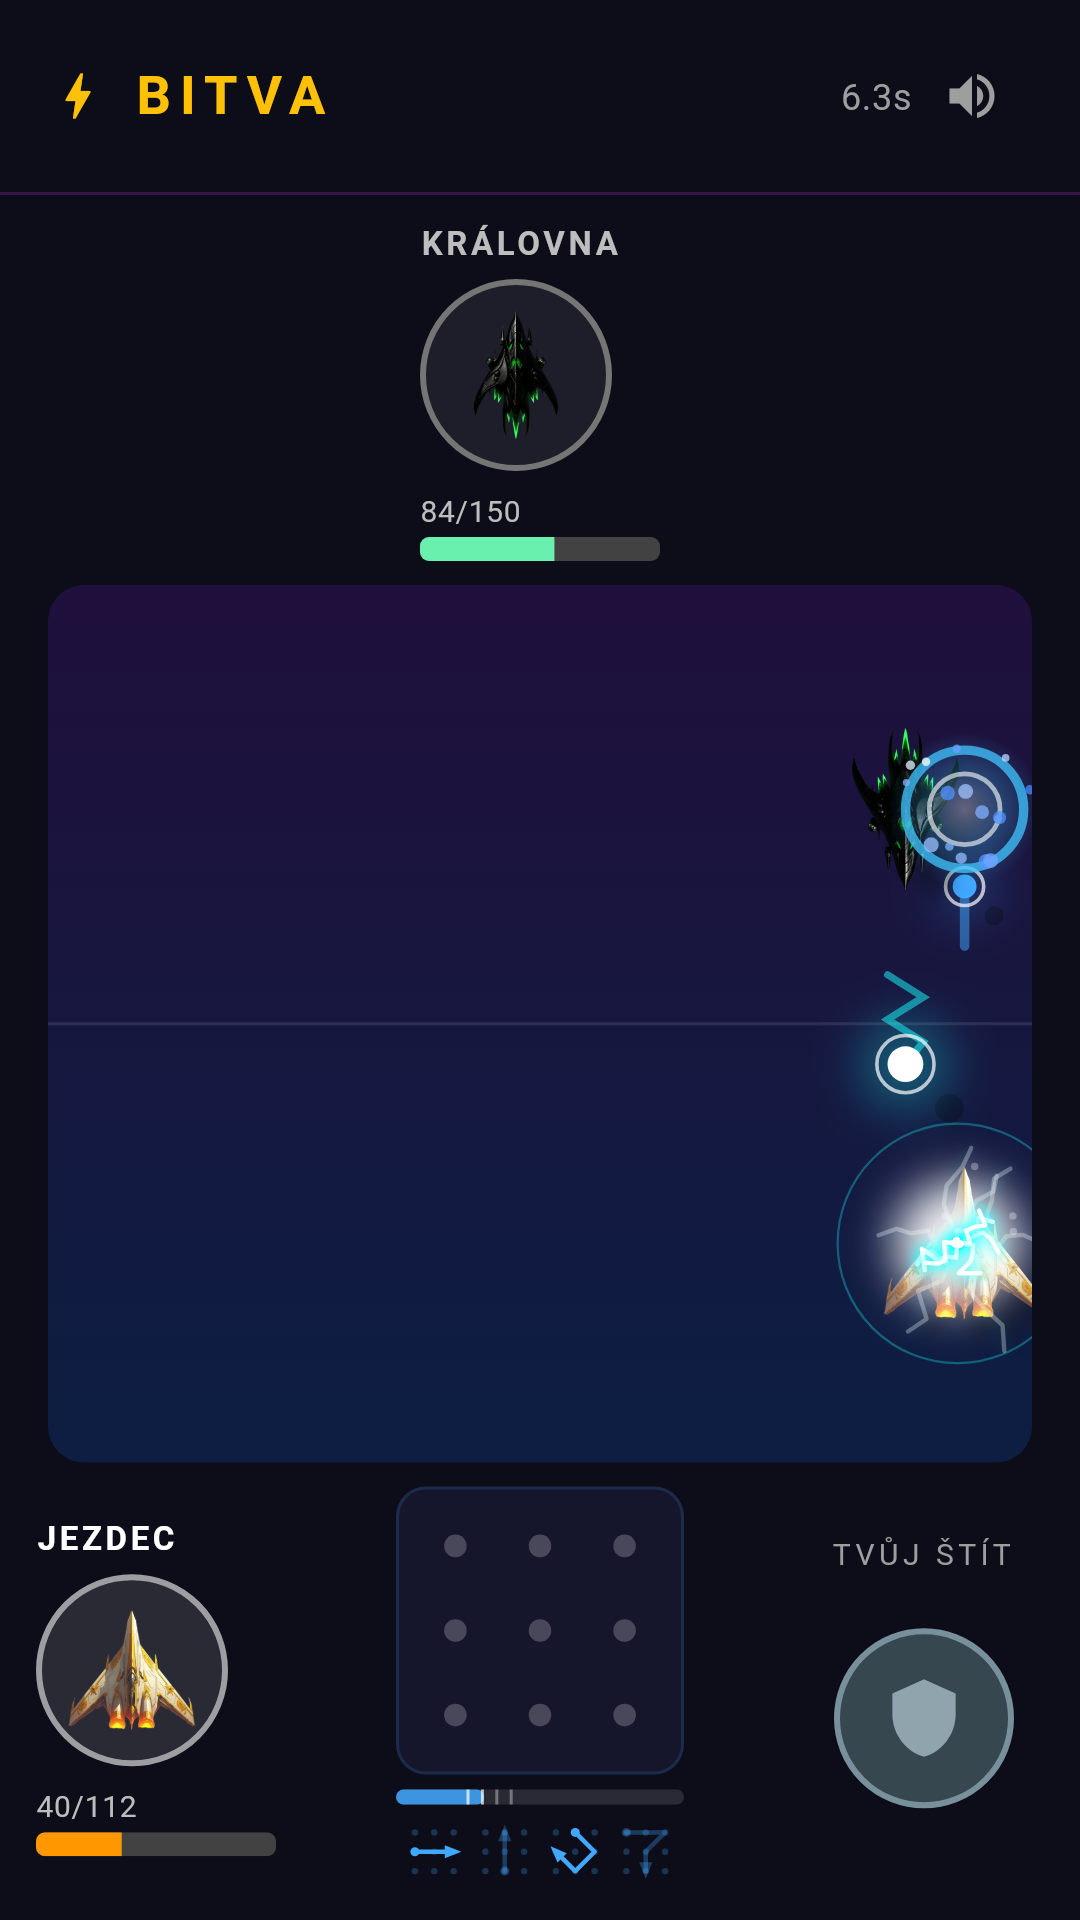
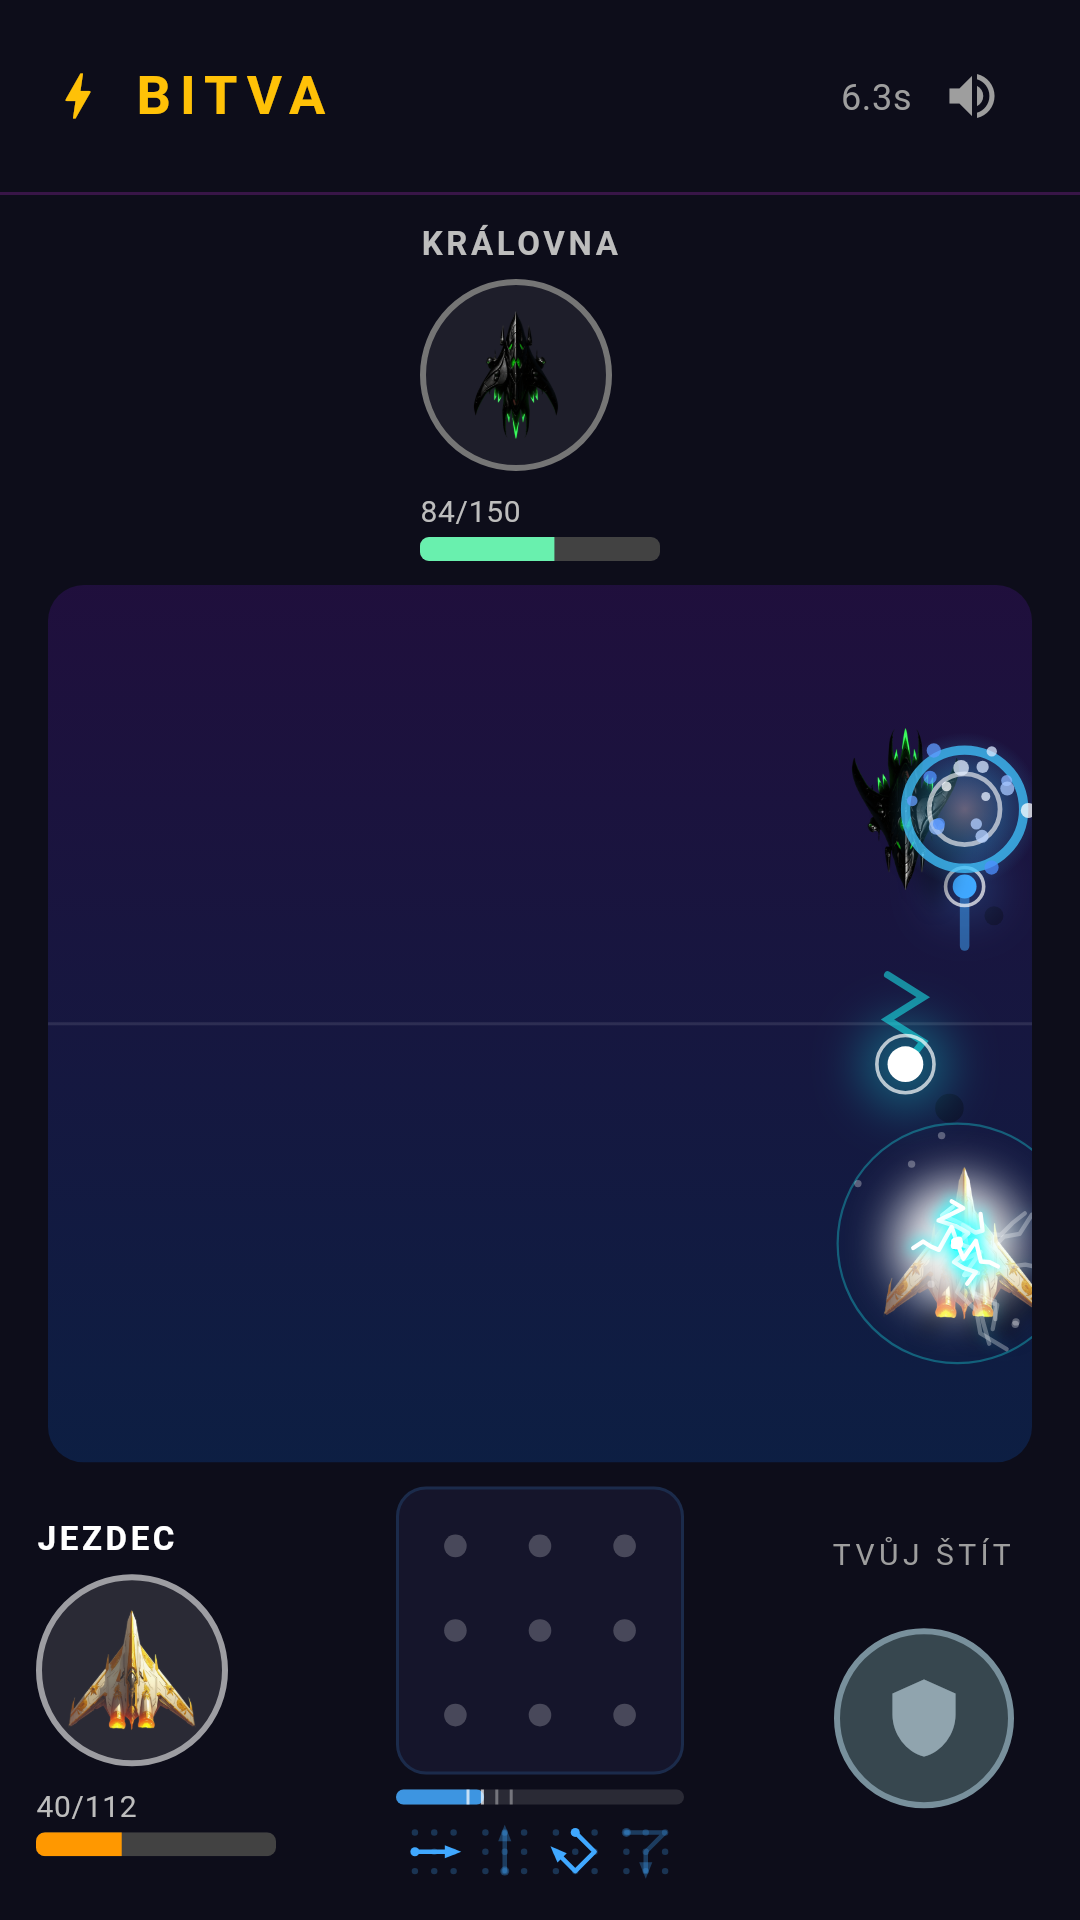
docs: packs, music, Czech and screenshots in README, CLAUDE.md and the release checklist
Twelve store products now (Phantom and Striker packs, Retro Arcade music),
listing and checklist updated, Czech and the screenshots marked done in
the plan.

Claude-Session: https://claude.ai/code/session_01CnxdHbVPekHYo5gGQuqTZk

Changed region(s): [[0.825, 0.5938, 0.9472, 0.7188], [0.8556, 0.375, 0.9472, 0.4688]]

diff --git a/test/store_screenshots/store_screenshots_test.dart b/test/store_screenshots/store_screenshots_test.dart
@@ -74,7 +74,7 @@ class _ShopWindow extends PurchaseService {
       StoreCatalog.commanderId => 249,
       StoreCatalog.fleetBundleId => 179,
       final id when id.startsWith('fleet.') => 49,
-      final id when id.startsWith('music.') => 25,
+      final id when id.startsWith('music.') => 29,
       _ => 79,
     };
     return czech ? '$crowns Kč' : '€${euro.toStringAsFixed(2)}';

diff --git a/CLAUDE.md b/CLAUDE.md
@@ -33,16 +33,17 @@ lib/
 ├── features/
 │   ├── battle/              # Game screen — board rendering, move handling
 │   ├── comcenter/           # Between-game lobby/settings screen
+│   ├── store/               # In-app purchases: catalog, entitlements, RevenueCat
 │   ├── game/                # Game state management
 │   ├── onboarding/          # How to play, first-battle hint
 │   ├── progress/            # Fleet progress (credits, upgrades, record) saved on device
-│   ├── store/               # In-app purchases: catalog, entitlements, RevenueCat
 │   └── telemetry/           # Product events to Supabase, Sentry breadcrumbs
 
 assets/fleets/               # Battle ship sprites, one folder per fleet
 assets/audio/                # Battle music and effects (tools/battle_audio)
+lib/l10n/                    # English and Czech (ARB, generated localizations, content_cs.dart)
 supabase/                    # Supabase schema and migrations
-docs/                        # Privacy policy, store listing
+docs/                        # Privacy policy, store listing, store/ screenshots and feature graphics
 release.example.json         # --dart-define-from-file keys for release builds
 ```
 
@@ -52,6 +53,7 @@ release.example.json         # --dart-define-from-file keys for release builds
 - `freezed` / `json_serializable` — immutable game models
 - `supabase_flutter` — lobby and realtime multiplayer
 - `shared_preferences` — fleet progress, one JSON blob per fleet under `fleet_progress.<identity>`
+- `flutter_localizations` / `intl` — gen-l10n, English and Czech
 - `purchases_flutter` — RevenueCat in-app purchases (one-time products only)
 - `sentry_flutter` 9.x — crash reports (10.x needs Dart 3.12; 8.x breaks the Kotlin build)
 - `package_info_plus` — app version for telemetry
@@ -78,6 +80,7 @@ release.example.json         # --dart-define-from-file keys for release builds
 - `BattleEngine.startManeuver` charges `BattleUnit.energy` (50 at the start, `maxEnergy` 100, `energyPerSecond` back) and stores a `ManeuverRun`; `tick` flies it, fires its bursts, lets shots pass through the untouchable window and refuses steering until it ends. `Overdrive` is the exception: the helm stays, only `fireRateScale` changes.
 - `ManeuverPad` recognises the gesture (`PatternRecognizer`) and `BattleStateNotifier.startLocalManeuver` runs it, sending `ManeuverStartedEvent` with the anchors so the opponent's engine flies the same path. An unknown maneuver id is ignored.
 - `BattleAi` reaches for one on its own 700 ms clock — cornered, or with the enemy in its hit zone. Tying it to the steering decision had the best pilots flying one almost without a break.
+- Pack families (`ManeuverTier.pack`, `PackUnlock`): `spiral` (Ace pack), `phantom` (Phantom pack: `Maneuver.cloaks`, no shots, longest untouchable window, the painter fades the ship) and `strafe` (Striker pack: two passes over the enemy). `maneuver_pack_balance_test` (slow) keeps a pack maneuver at or under 58 % against its closest earnable one; both land at 44 %. `BattleAi` takes a fixed `maneuvers` loadout for it.
 - Progress: `FleetProgress.maneuvers` (`ShipManeuvers`: owned, four armed, trained levels) and `battleWins` per ship. `FleetProgressNotifier.recordBattleWin` unlocks what the wins are worth, `buyManeuver`/`upgradeManeuver`/`armManeuvers`/`grantPack` do the rest. Single player only, like credits and skins.
 
 ## Fleet Ship Art
@@ -89,10 +92,22 @@ release.example.json         # --dart-define-from-file keys for release builds
 ## Store
 
 - Free game, no ads; the store sells looks and sidegrades. `FleetSkin.premium` marks six fleets; Vanguard and the AI fleets are free.
-- `StoreCatalog` lists the products (`bundle.commander`, `bundle.fleets`, `fleet.<slug>`, `pack.<id>`); the ids are the Google Play and App Store product ids. `Entitlements` answers what is owned: a product, a bundle covering it, or a `legacyFleets` slug kept from before the store.
+- `StoreCatalog` lists the products (`bundle.commander`, `bundle.fleets`, `fleet.<slug>`, `pack.<id>`, `music.<slug>`); the ids are the Google Play and App Store product ids. `Entitlements` answers what is owned: a product, a bundle covering it, or a `legacyFleets` slug kept from before the store.
 - `PurchaseService`: `RevenueCatPurchaseService` when the build has `REVENUECAT_GOOGLE_KEY` / `REVENUECAT_APPLE_KEY`, `DebugPurchaseService` (free, saved on device) in debug builds, else `UnavailablePurchaseService`. No RevenueCat entitlements or offerings: the app maps product ids itself.
 - `EntitlementsNotifier` (`entitlementsProvider`) caches in `store.entitlements`, syncs at start, grants owned packs with `FleetProgressNotifier.grantPack`, and swaps an unowned premium skin for the fallback (refunds). The first launch with a store grandfathers the premium skin the player flies.
+- Music: `BattleMusic` (`standard`, premium `retro` from `assets/audio/music_retro/`, built by `tools/battle_audio/chiptune.py`); `chosenBattleMusicProvider` keeps the pick in `battle_music`, `battleMusicProvider` falls back to standard when it is not owned; `BattleAudio.start(music:)` and `preview`.
 - UI: Comcenter Store tab (`StoreTab`, Restore purchases), `showStoreItemSheet` from locked fleet cards and pack maneuvers.
+
+## Localization
+
+- English (template) and Czech in `lib/l10n/app_{en,cs}.arb`; `flutter gen-l10n` writes the tracked `app_localizations*.dart` next to them. Use `context.l10n` (falls back to English without delegates, as in widget tests).
+- Catalog content stays English in pure Dart; `AppLocalizations.content()`, `maneuverName`, `storeTitle` and so on translate it from `content_cs.dart`. `l10n_test` fails when a key, placeholder or catalog text is missing in Czech or a Czech entry is stale.
+- `resolveAppLocale`: Czech for a Czech device, English for everything else (Flutter's own fallback would pick Czech, the first supported locale).
+- Fleet names stay proper nouns; the game's default player names (White, Black, Orbitron AI) are mapped for display in `game_screen.dart`.
+
+## Store screenshots
+
+`STORE_SCREENSHOTS=1 flutter test test/store_screenshots` renders `docs/store/` (skipped otherwise). It loads Roboto and Material Icons from the Flutter SDK and DejaVu Sans for chess symbols from this machine, fakes store prices, and picks a battle frame from simulated duels. `OrbitronTacticsApp` takes `home`, `locale` and `theme` for it.
 
 ## Telemetry and onboarding
 

diff --git a/Prompts/10-RELEASE-checklist.md b/Prompts/10-RELEASE-checklist.md
@@ -3,12 +3,15 @@
 > Předávací checklist k plánu `09-PLAN-monetizace.md`. Kód je hotový na větvi
 > `claude/plan-monetizace` (Android podpis, Supabase RLS, telemetrie, obchod,
 > onboarding). Tady jsou kroky, které potřebují tvoje účty, klíče nebo Mac.
+> Od té doby přibyly: balíčky manévrů Phantom a Striker, hudba Retro Arcade,
+> čeština v aplikaci a screenshoty do storu. Produktů je teď **12**.
+>
 > Pro Claude v lokálním terminálu: postupuj po sekcích, nic z toho necommituj
 > kromě úprav označených **(commit)**. Klíče patří do `release.json` a
 > `android/key.properties`, oba jsou v `.gitignore`.
 
-Stav větve: `flutter analyze` čistý, `flutter test --exclude-tags slow` 322
-zelených, `flutter build apk --release` i `flutter build appbundle --release`
+Stav větve: `flutter analyze` čistý, `flutter test --exclude-tags slow` 344
+zelených (4 přeskočené jsou generátor screenshotů), `flutter build apk --release` i `flutter build appbundle --release`
 (s testovacím upload klíčem) prošly na Linuxu s Flutter 3.41.9. iOS build
 neověřený (chybí Mac).
 
@@ -57,7 +60,7 @@ sentry.io → nový projekt Flutter → zkopíruj DSN do `release.json`
 3. **Closed testing hned teď**: osobní účet potřebuje 12 testerů
    přihlášených 14 dní v kuse, než povolí produkci. První build může jít
    bez IAP klíčů (obchod se ukáže jako nedostupný).
-4. Monetize → In-app products: založ 9 jednorázových produktů podle
+4. Monetize → In-app products: založ 12 jednorázových produktů podle
    tabulky v `docs/store-listing.md` (id musí sedět přesně), ceny ručně
    pro CZK a EUR, stav Active.
 5. Settings → License testing: přidej svůj Google účet a testery
@@ -75,7 +78,7 @@ sentry.io → nový projekt Flutter → zkopíruj DSN do `release.json`
    credentials“; oprávnění se propisují až 36 h).
 2. **App Store app**: bundle id `com.ol1n.orbitronTactics`, In-App
    Purchase Key z App Store Connect.
-3. Products → Import: všech 9 produktů z obou storů. **Entitlements ani
+3. Products → Import: všech 12 produktů z obou storů. **Entitlements ani
    Offerings nejsou potřeba**, aplikace mapuje id produktů na obsah sama.
 4. API keys → public SDK keys `goog_...` a `appl_...` do `release.json`.
 
@@ -96,7 +99,7 @@ výchozí hodnoty v kódu míří na stávající projekt.
 2. Xcode → Runner → Signing & Capabilities → přidej **In-App Purchase**,
    vyber tým; v `ios/ExportOptions.plist` nahraď `REPLACE_WITH_YOUR_TEAM_ID`
    **(commit)**.
-3. App Store Connect: nová aplikace, 9 In-App Purchases (Non-Consumable,
+3. App Store Connect: nová aplikace, 12 In-App Purchases (Non-Consumable,
    stejná id), každý s review screenshotem; odeslat spolu s prvním buildem.
 4. `cd ios && pod install && cd ..`
    `flutter build ipa --release --dart-define-from-file=release.json`
@@ -115,7 +118,9 @@ výchozí hodnoty v kódu míří na stávající projekt.
 | License tester koupí Solar Crusade | Flotila odemčená a vybraná, `app_events` má `purchase` s `purchased` |
 | Refund v Play Console, restart aplikace | Flotila znovu zamčená, letí Vanguard |
 | Reinstalace, Restore purchases | Nákupy zpět |
-| Balíček Ace | Spirála u všech lodí v záložce Maneuvers |
+| Balíček Ace, Phantom, Striker | Spirála, Fantom a Nálet u všech lodí v záložce Maneuvers |
+| Hudba Retro Arcade | V Store tabu volba hudby; po koupi hraje v bitvě, po refundu zase standardní |
+| Telefon s češtinou / jiným jazykem | Čeština / angličtina |
 | Start offline | Hra jede, obchod bez cen, koupené věci zůstávají |
 | Alfa tester s prémiovou flotilou | Po aktualizaci ji má dál (legacy) |
 | Dvě zařízení, online hra | Lobby ukáže hru, druhý se připojí; třetí ji už nevidí |
@@ -123,15 +128,18 @@ výchozí hodnoty v kódu míří na stávající projekt.
 
 ## 9. Store assety
 
-6–8 screenshotů telefonu (lobby, deska, bitva, manévr, Comcenter, Store),
-feature graphic 1024×500, ikona 512×512 (`assets/icon/icon.png`), texty
-v `docs/store-listing.md`.
+Hotové v `docs/store/`: 7 screenshotů telefonu v EN a CS a feature graphic
+1024×500 v EN a CS (generuje je `STORE_SCREENSHOTS=1 flutter test
+test/store_screenshots`). Ikona 512×512 je `assets/icon/icon.png`, texty
+jsou v `docs/store-listing.md`. Chybí jen screenshoty tabletů (nepovinné).
+Lepší by byly screenshoty z reálného zařízení; tyhle jsou z testu.
 
 ## Co z plánu není hotové
 
-- **Čeština v aplikaci** (B9): UI je anglicky, store listing je dvojjazyčný.
 - **Odznak supportera v lobby** u Commander Edition: vypuštěn, šel by
   podvrhnout z klienta; Commander dává všechen současný i budoucí obsah.
-- **Vlna 2 a 3** obsahu (nové flotily, balíčky Phantom/Striker, hudba,
-  témata desky) podle plánu po vydání.
+- **Vlna 3** (témata desky, profil v lobby, booster kreditů) podle plánu
+  po vydání. Nové flotily potřebují sprity, nástroj na ně v repu není.
+- **Hudba Retro Arcade** je syntetizovaná skriptem, ne generovaná modelem;
+  poslechni ji před vydáním (`tools/battle_audio/chiptune.py`).
 - **Windows**: v repu není `windows/`, z README a CLAUDE.md jsem ho vyřadil.

diff --git a/README.md b/README.md
@@ -20,11 +20,12 @@ A strategic 2-player chess variant with custom piece movement rules, power field
 - Battle arena with altitude, banking ships and elemental explosions
 - Battle music per attacking unit type and sound effects per element
 - Maneuvers drawn as gestures: 11–13 per ship, armed four at a time
-- Free to play, no ads; a store for premium fleets and maneuver packs
+- Free to play, no ads; a store for premium fleets, maneuver packs and music
+- English and Czech, following the device's language
 - How to play pages on first launch, control hints in the first battle
 - Threat indicators (red badge on endangered pieces)
 - Disconnect handling via Supabase Presence
-- 322 unit and widget tests
+- 344 unit and widget tests
 
 ## Single Player
 
@@ -64,10 +65,13 @@ all one-time purchases:
 | Commander Edition | Everything below, and everything added later |
 | Fleet Collection | All six premium fleets, and fleets added later |
 | A premium fleet | Solar Crusade, Neon Runners, Crystal Choir, Ronin Blades, Atomic Age or Abyssal Tide |
-| Ace pack | The corkscrew for every ship |
+| Ace, Phantom and Striker packs | The corkscrew, the cloaked Phantom and the two-pass Strafing Run for every ship |
+| Retro Arcade music | Every battle theme again as 8-bit chiptune |
 
 Vanguard and the three AI fleets (Star Nomads, Iron Armada, Void Hive) stay
-free. Purchases go through RevenueCat to Google Play and the App Store;
+free, and so do the standard themes. The packs are sidegrades: a slow
+balance test pits each pack maneuver against the closest earnable one in
+every ship, and neither wins more than 44 % of 900 battles. Purchases go through RevenueCat to Google Play and the App Store;
 Restore purchases is at the bottom of the Store tab. Debug builds sell
 everything for free.
 
@@ -93,6 +97,9 @@ flutter run -d android
 
 # Release, with the keys from release.example.json
 flutter build appbundle --release --dart-define-from-file=release.json
+
+# Store screenshots and feature graphics into docs/store
+STORE_SCREENSHOTS=1 flutter test test/store_screenshots
 
 # Tests (as CI runs them)
 flutter test --exclude-tags slow

diff --git a/docs/store-listing.md b/docs/store-listing.md
@@ -1,5 +1,17 @@
 # Store listing — Orbitron Tactics
 
+## Graphics
+
+Rendered from the real screens by `STORE_SCREENSHOTS=1 flutter test
+test/store_screenshots`; regenerate after any UI change.
+
+| File | Use |
+|---|---|
+| `docs/store/screenshots/{en,cs}/01_lobby.png` … `07_how_to_play.png` | Phone screenshots, 1080 x 1920, in this order |
+| `docs/store/feature_graphic_{en,cs}.png` | Play feature graphic, 1024 x 500, per language |
+
+Tablet screenshots (7" and 10") are optional on Play and not made.
+
 ## Names and short descriptions
 
 | | English | Čeština |
@@ -36,8 +48,9 @@ PLAY YOUR WAY
 BUILD YOUR FLEET
 Win battles to earn credits, upgrade your units and learn new maneuvers.
 
-The whole game is free, with no ads. Optional purchases add premium fleets
-and maneuver packs; they change how the game looks, not who wins.
+The whole game is free, with no ads. Optional purchases add premium fleets,
+maneuver packs and a retro chiptune soundtrack; they change how the game
+looks and sounds, not who wins.
 
 ## Plný popis — čeština
 
@@ -68,7 +81,8 @@ VYBUDUJ SI FLOTILU
 Vyhrané bitvy přinášejí kredity na vylepšení jednotek a nové manévry.
 
 Celá hra je zdarma a bez reklam. Volitelné nákupy přidávají prémiové
-flotily a balíčky manévrů; mění vzhled hry, ne to, kdo vyhraje.
+flotily, balíčky manévrů a retro chiptune hudbu; mění vzhled a zvuk hry,
+ne to, kdo vyhraje.
 
 ## In-app products (one-time, non-consumable)
 
@@ -85,6 +99,9 @@ Product ids are the same on Google Play and in App Store Connect.
 | `fleet.atomic_age` | Atomic Age | 1.99 | 49 |
 | `fleet.abyssal_tide` | Abyssal Tide | 1.99 | 49 |
 | `pack.ace` | Ace pack | 2.99 | 79 |
+| `pack.phantom` | Phantom pack | 2.99 | 79 |
+| `pack.striker` | Striker pack | 2.99 | 79 |
+| `music.retro` | Retro Arcade music | 0.99 | 29 |
 
 The ids come from `StoreCatalog` in the app; a product the app does not
 know is ignored, and an item the store does not list shows "Not in the

diff --git a/CHANGELOG.md b/CHANGELOG.md
@@ -1,5 +1,11 @@
 # Changelog
 
+## [09/11/2026]
+- The app speaks Czech on a Czech device and English everywhere else; maneuver names and descriptions are translated too
+- Two more maneuver packs: Phantom (fades from sight and slips aside, no shots) and Strafing Run (two passes over the enemy, no cover); a balance test keeps them sidegrades
+- Retro Arcade music pack: every battle theme as 8-bit chiptune, picked in the Store tab, with a ten-second preview
+- Store screenshots and feature graphics in English and Czech, rendered from the real screens
+
 ## [08/11/2026]
 - Store in the Comcenter: Commander Edition, Fleet Collection, six premium fleets and the Ace pack, all one-time purchases through Google Play and the App Store; Restore purchases
 - Vanguard and the three AI fleets stay free; a premium fleet flown before the store is kept

diff --git a/Prompts/09-PLAN-monetizace.md b/Prompts/09-PLAN-monetizace.md
@@ -12,7 +12,9 @@ události do tabulky `app_events` místo samotného Sentry), A1–A8 (RevenueCat
 `Entitlements`, záložka Store, Restore, zámky flotil, balíček Ace, grandfather),
 B8 (How to play + nápověda v první bitvě), B2/B7 texty v `docs/`, B10.
 Rozhodnutí: otevřené otázky 1–4 podle návrhu. Odznak supportera vypuštěn.
-Zbývá: B5, B6, B9 a vše s účty a klíči — viz `10-RELEASE-checklist.md`.
+Doplněno 09/11/2026: balíčky Phantom a Striker, hudba Retro Arcade, čeština
+(B9), screenshoty a feature graphic. Zbývá: B5, B6 a vše s účty a klíči — viz
+`10-RELEASE-checklist.md`.
 
 ## Stav před implementací (z kódu)
 
